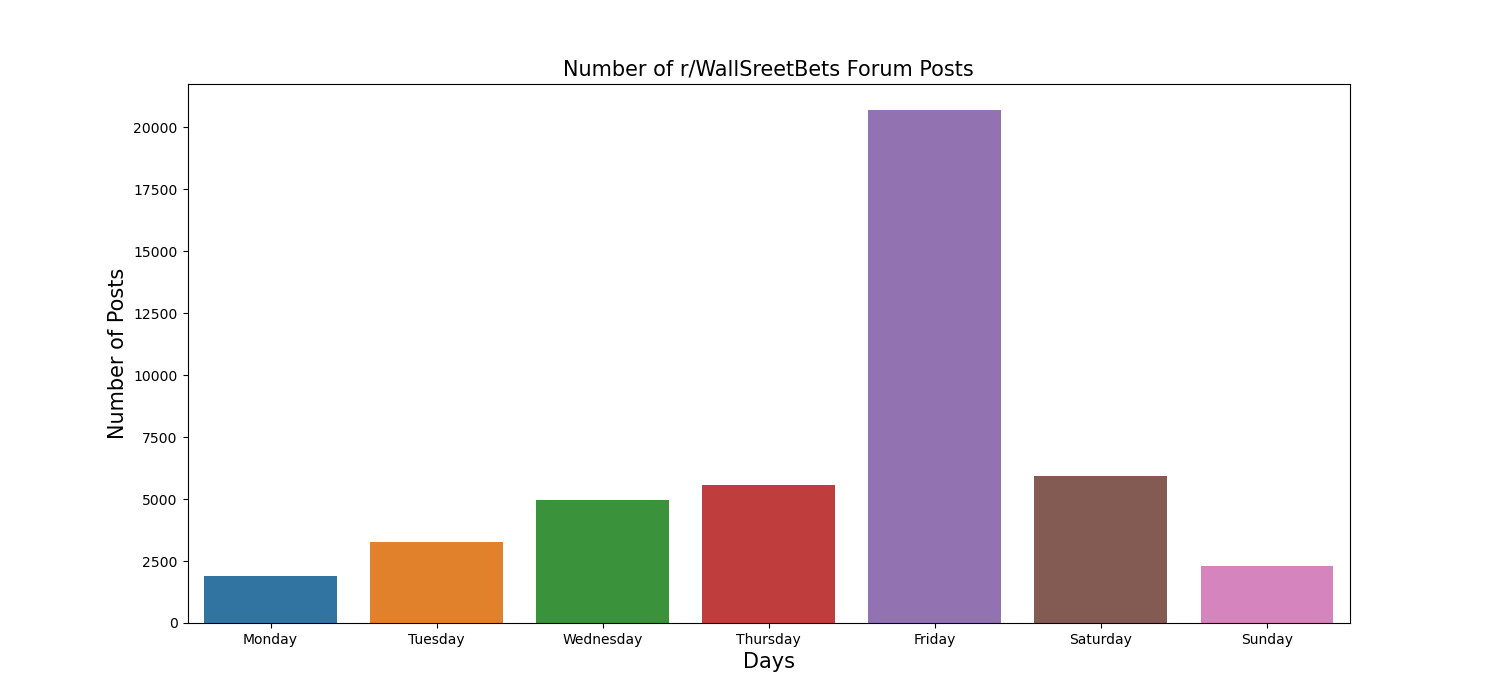
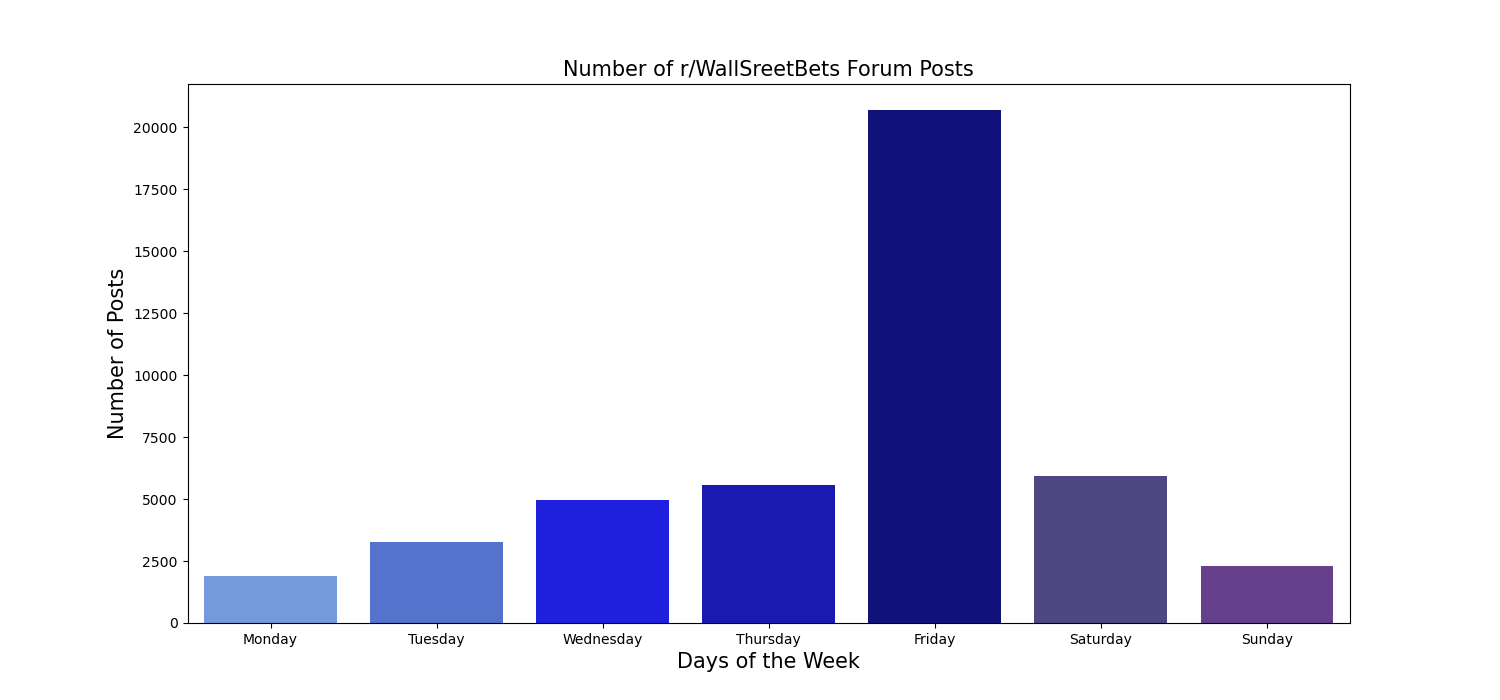
Fifth commit

Changed region(s): [[0.1227, 0.15, 0.8893, 0.9], [0.46, 0.93, 0.5827, 0.96]]

diff --git a/volume_analysis.py b/volume_analysis.py
@@ -3,7 +3,7 @@
 
 import pandas as pd
 import matplotlib.pyplot as plt
-import matplotlib as mtb
+import matplotlib as mtl
 import seaborn as sns
 import numpy as np
 from IPython.display import Image
@@ -11,13 +11,17 @@ from IPython.display import Image
 
 # GME Data
 gme = pd.read_csv(r"GME_stock.csv")
-
-gme['gme_vol_diff'] = gme['volume'].diff(periods=-1);
+# GME Volume %
+gme_vol_diff = gme['volume'].diff(periods=-1)
+gme['vol_diff'] = ((gme["volume"] - gme_vol_diff) / gme["volume"]) * 100
+print(gme.head())
 
 # DOGECOIN Data
 doge = pd.read_csv(r"DOGE-USD.csv")
-
-doge['doge_vol_diff'] = doge['volume'].diff(periods=1);
+# GME Volume %
+doge_vol_diff= doge['volume'].diff(periods=1)
+doge['vol_diff'] = ((doge["volume"] - doge_vol_diff) / doge["volume"]) * 100
+print(doge.head())
 
 # MERGE GME AND DOGECOIN TABLES
 gme_doge = gme.merge(doge, on="date", how="left", suffixes=["_gme", "_doge"])
@@ -31,7 +35,7 @@ gme_doge['date'] = pd.to_datetime(gme['date'], infer_datetime_format=True)
 gme_doge.set_index('date')
 gme_doge.sort_index()
 
-date_range = gme_doge[gme_doge['date'].isin(pd.date_range('2021-01-01', '2021-04-13'))]
+date_range = gme_doge[gme_doge['date'].isin(pd.date_range('2021-01-13', '2021-02-02'))]
 print(date_range.shape)
 print(date_range)
 
@@ -39,39 +43,35 @@ sns.set(style="darkgrid")
 color = sns.color_palette()[2]
 
 fig1, ax = plt.subplots(figsize=(15,7))
-plot = sns.lineplot(ax=ax, x=date_range['date'].values, y=date_range['volume_doge'], color=color)
+plot = sns.lineplot(ax=ax, x=date_range['date'].values, y=date_range['vol_diff_gme'], color='cornflowerblue', label='GME')
+plot = sns.lineplot(ax=ax, x=date_range['date'].values, y=date_range['vol_diff_doge'], color='midnightblue', label='DOGE')
 ax.set(xticks=date_range['date'].values)
 x_dates = date_range['date'].dt.strftime('%Y-%m-%d')
 ax.set_xticklabels(labels=x_dates, rotation=45, ha='right')
 plt.ticklabel_format(style='plain', axis='y')
 ax.get_yaxis().set_major_formatter(
-    mtb.ticker.FuncFormatter(lambda y, p: format(int(y), ',')))
-#for ind, label in enumerate(plot.get_xticklabels()):
-#    if ind % 2 == 0:  # every 2nd label is kept
-#        label.set_visible(True)
-#    else:
+    mtl.ticker.FuncFormatter(lambda y, p: format(int(y), ',')))
 #        label.set_visible(False)
 plt.xlabel('Date')
 plt.ylabel('Volume')
-plt.title('Plot of DOGE Volume')
+plt.title('Plot of GME Volume')
 plt.show()
 
 fig1.savefig('vol_analysis.png')
 
+
+#date_range_2 = gme_doge[gme_doge['date'].isin(pd.date_range('2020-01-01', '2021-03-05'))]
+
 fig2, ax = plt.subplots(figsize=(15,7))
-plot = sns.lineplot(ax=ax, x=date_range['date'].values, y=date_range['doge_vol_diff'], color=color)
-ax.set(xticks=date_range['date'].values)
-x_dates = date_range['date'].dt.strftime('%Y-%m-%d')
-ax.set_xticklabels(labels=x_dates, rotation=45, ha='right')
+plot = sns.factorplot(ax=ax, x=date_range['vol_diff_gme'].values, y=date_range['vol_diff_doge'], color=color)
+#plot = sns.scatterplot(ax=ax, x=date_range['date'].values, y=date_range['low_gme'], color=color)
+ax.set(xticks=date_range['vol_diff_gme'].values)
+#x_dates = date_range['date'].dt.strftime('%Y-%m-%d')
+#ax.set_xticklabels(labels=x_dates, rotation=45, ha='right')
 plt.ticklabel_format(style='plain', axis='y')
-ax.get_yaxis().set_major_formatter(
-    mtb.ticker.FuncFormatter(lambda y, p: format(int(y), ',')))
-#for ind, label in enumerate(plot.get_xticklabels()):
-#    if ind % 2 == 0:  # every 2nd label is kept
-#        label.set_visible(True)
-#    else:
-#        label.set_visible(False)
+#ax.get_yaxis().set_major_formatter(
+#    mtl.ticker.FuncFormatter(lambda y, p: format(int(y), ',')))
 plt.xlabel('Date')
 plt.ylabel('Volume')
-plt.title('Difference in DOGE Volume')
+plt.title('GME High Share Price')
 plt.show()

diff --git a/sp_change.py b/sp_change.py
@@ -1,0 +1,67 @@
+import pandas as pd
+import matplotlib as mtl
+import matplotlib.pyplot as plt
+import seaborn as sns
+import numpy as np
+
+# GME Data
+gme = pd.read_csv(r"GME_stock.csv")
+print(gme.shape)
+print(gme.dtypes)
+
+# GME % INCREASE
+gme["change"] = ((gme["high"] - gme["low"]) / gme["high"]) * 100
+
+# DOGECOIN Data
+doge = pd.read_csv(r"DOGE-USD.csv")
+print(doge.shape)
+print(doge.dtypes)
+
+# DOGE % INCREASE
+doge["change"] = ((doge["high"] - doge["low"]) / doge["high"]) * 100
+
+# MERGE GME AND DOGECOIN TABLES
+gme_doge = gme.merge(doge, on="date", how="left", suffixes=["_gme", "_doge"])
+pd.set_option('display.max_columns', None)
+print(gme_doge.head())
+print(gme_doge.shape)
+
+# Null values present as DOGE ranges from 2014-2021, whereas GME ranges from 2002-2021
+print(gme_doge.isnull())
+print(gme_doge.isnull().sum())
+
+# Converting the date column into datetime index
+gme_doge['date'] = pd.to_datetime(gme['date'], infer_datetime_format=True)
+gme_doge.set_index('date')
+gme_doge.sort_index()
+
+date_range = gme_doge[gme_doge['date'].isin(pd.date_range('2021-01-13', '2021-02-05'))]
+print(date_range.shape)
+print(date_range)
+
+# MERGED TABLES GRAPH
+sns.set(style="darkgrid")
+fig, ax = plt.subplots(figsize=(15,7))
+plot = sns.lineplot(ax=ax, x=date_range['date'].values, y=date_range['change_gme'], color='cornflowerblue', legend='brief', label='GME')
+plot = sns.lineplot(ax=ax, x=date_range['date'].values, y=date_range['change_doge'], color='midnightblue', legend='brief', label='DOGE')
+ax.set(xticks=date_range['date'].values)
+x_dates = date_range['date'].dt.strftime('%b-%d')
+ax.set_xticklabels(labels=x_dates, rotation=45, ha='right')
+plt.ticklabel_format(style='plain', axis='y')
+ax.get_yaxis().set_major_formatter(
+    mtl.ticker.FuncFormatter(lambda y, p: format(int(y), ',')))
+#for ind, label in enumerate(plot.get_xticklabels()):
+#    if ind % 10 == 0:  # every 10th label is kept
+#        label.set_visible(True)
+#    else:
+#        label.set_visible(False)
+plt.xlabel('Date')
+plt.ylabel('Share Price Increase (%)')
+plt.title('Percentage Increase in Share Price of GME and DOGE')
+plt.show()
+
+fig.savefig('sp_change.png')
+
+
+
+

diff --git a/doge_vol_sp.py b/doge_vol_sp.py
@@ -1,0 +1,53 @@
+import pandas as pd
+import matplotlib.pyplot as plt
+import matplotlib as mtl
+import seaborn as sns
+import numpy as np
+from IPython.display import Image
+
+# DOGE Data
+doge = pd.read_csv(r"DOGE-USD.csv")
+
+# DOGE Volume %
+doge_vol_diff = doge['volume'].diff(periods=-1)
+doge['vol_diff'] = ((doge["volume"] - doge_vol_diff) / doge["volume"]) * 100
+
+# DOGE SP % INCREASE
+doge["change"] = ((doge["high"] - doge["low"]) / doge["high"]) * 100
+
+# Converting the date column into datetime index
+doge['date'] = pd.to_datetime(doge['date'], infer_datetime_format=True)
+doge.set_index('date', inplace=True)
+
+plt.figure(figsize=(10, 5))
+top = plt.subplot2grid((4, 4), (0, 0), rowspan=3, colspan=10)
+bottom = plt.subplot2grid((4, 4), (3, 0), rowspan=1, colspan=10)
+top.bar(doge.index, doge['high'])
+bottom.bar(doge.index, doge['volume'])
+
+
+top.axes.get_xaxis().set_visible(False)
+top.set_title('DOGE Stock')
+top.set_ylabel('Highest Price')
+bottom.set_ylabel('Volume')
+
+plt.show()
+
+doge['date'] = pd.to_datetime(gme['date'], infer_datetime_format=True)
+doge.set_index('date')
+date_range = doge[doge['date'].isin(pd.date_range('2021-01-13', '2021-02-05'))]
+
+sns.set(style="darkgrid")
+fig, ax = plt.subplots(figsize=(15,7))
+plot = sns.lineplot(ax=ax, x=date_range['date'].values, y=date_range['volume_doge'], color='midnightblue', label='DOGE')
+ax.set(xticks=date_range['date'].values)
+x_dates = date_range['date'].dt.strftime('%b-%d')
+ax.set_xticklabels(labels=x_dates, rotation=45, ha='right')
+plt.ticklabel_format(style='plain', axis='y')
+ax.get_yaxis().set_major_formatter(
+    mtl.ticker.FuncFormatter(lambda y, p: format(int(y), ',')))
+
+plt.xlabel('Date')
+plt.ylabel('Volume')
+plt.title('Volume Trend of DOGE')
+plt.show()

diff --git a/gme_vol_sp.py b/gme_vol_sp.py
@@ -1,0 +1,51 @@
+import pandas as pd
+import matplotlib.pyplot as plt
+import matplotlib as mtl
+import seaborn as sns
+import numpy as np
+from IPython.display import Image
+
+# GME Data
+gme = pd.read_csv(r"GME_stock.csv")
+
+# GME Volume %
+gme_vol_diff = gme['volume'].diff(periods=-1)
+gme['vol_diff'] = ((gme["volume"] - gme_vol_diff) / gme["volume"]) * 100
+
+# GME SP % INCREASE
+gme["change"] = ((gme["high"] - gme["low"]) / gme["high"]) * 100
+
+# Converting the date column into datetime index
+gme['date'] = pd.to_datetime(gme['date'], infer_datetime_format=True)
+gme.set_index('date', inplace=True)
+
+plt.figure(figsize=(10, 5))
+top = plt.subplot2grid((4, 4), (0, 0), rowspan=3, colspan=10)
+bottom = plt.subplot2grid((4, 4), (3, 0), rowspan=1, colspan=10)
+top.bar(gme.index, gme['high'])
+bottom.bar(gme.index, gme['volume'])
+
+
+top.axes.get_xaxis().set_visible(False)
+top.set_title('GME Stock')
+top.set_ylabel('Highest Price')
+bottom.set_ylabel('Volume')
+
+plt.show()
+
+date_range = gme[gme['date'].isin(pd.date_range('2021-01-13', '2021-02-05'))]
+
+sns.set(style="darkgrid")
+fig, ax = plt.subplots(figsize=(15,7))
+plot = sns.lineplot(ax=ax, x=date_range['date'].values, y=date_range['volume'], color='cornflowerblue', label='GME')
+ax.set(xticks=date_range['date'].values)
+x_dates = date_range['date'].dt.strftime('%b-%d')
+ax.set_xticklabels(labels=x_dates, rotation=45, ha='right')
+plt.ticklabel_format(style='plain', axis='y')
+ax.get_yaxis().set_major_formatter(
+    mtl.ticker.FuncFormatter(lambda y, p: format(int(y), ',')))
+
+plt.xlabel('Date')
+plt.ylabel('Volume')
+plt.title('Volume Trend of GME')
+plt.show()

diff --git a/wsb_data.py b/wsb_data.py
@@ -1,5 +1,6 @@
 import pandas as pd
 import matplotlib.pyplot as plt
+import matplotlib as mtl
 import seaborn as sns
 import numpy as np
 
@@ -7,17 +8,17 @@ wsb = pd.read_csv(r"reddit_wsb.csv")
 print(wsb["body"].count())
 
 # SEPARATE TIMESTAMP COLUMN TO DATE AND TIME
-wsb["date"] = pd.to_datetime(wsb["timestamp"]).dt.date
-wsb["time"] = pd.to_datetime(wsb["timestamp"]).dt.time
-wsb["date"] = pd.to_datetime((wsb["date"]))
-wsb.dropna()
+wsb['date'] = pd.to_datetime(wsb['timestamp']).dt.date
+wsb['time'] = pd.to_datetime(wsb['timestamp']).dt.time
+wsb['date'] = pd.to_datetime((wsb['date']))
+wsb.drop(['created', 'timestamp'], 1, inplace=True)
 pd.set_option('display.max_columns', None)
 print(wsb.columns)
 print(wsb.head())
 
-print(wsb["body"].count())
+print(wsb['body'].count())
 
-#wsb.set_index("date")
+wsb.set_index('date')
 
 def missing_data(data):
     total = data.isnull().sum()
@@ -31,3 +32,23 @@ def missing_data(data):
     return(np.transpose(tt))
 
 print(missing_data(wsb))
+
+wsb.fillna('n/a', inplace=True)
+print(missing_data(wsb))
+
+wsb_data = wsb[(wsb['score'] > 7000) & (wsb['comms_num'] > 500)]
+print('WSB DATA')
+print(wsb_data)
+
+print('MAX SCORE')
+max_score = wsb.loc[wsb['score'].idxmax()]
+print(max_score)
+
+
+sns.set(style="darkgrid")
+fig, ax = plt.subplots(figsize=(15,7))
+plot = sns.scatterplot(ax=ax, x=wsb_data['score'].values, y=wsb_data['date'].values, hue='score', legend='brief', label='Score')
+plt.xlabel('Score of Post')
+plt.ylabel('# of Comments')
+plt.title('r/WSB')
+plt.show()

diff --git a/doge_sp.py b/doge_sp.py
@@ -1,0 +1,40 @@
+import pandas as pd
+import matplotlib.pyplot as plt
+import matplotlib as mtl
+import seaborn as sns
+import numpy as np
+from IPython.display import Image
+
+# DOGECOIN Data
+doge = pd.read_csv(r"DOGE-USD.csv")
+
+doge['doge_vol_diff'] = doge['volume'].diff(periods=1);
+doge['change'] = ((doge['high'] - doge['low']) / doge['high']) * 100
+doge['date'] = pd.to_datetime(doge['date'])
+
+#doge['date'] = pd.date_range('2021-01-01', periods=200, freq='D')
+#doge = doge.set_index(['date'])
+#print(doge.loc['2021-01-26':'2021-02-12'])
+
+doge_cols = doge.iloc[:, [0,2]]
+print(doge_cols)
+doge_cols.set_index(['date'])
+doge_sub = doge_cols['date'].loc['2021-01-06':'2021-02-10']
+print(doge_sub)
+
+sns.set(style="darkgrid")
+color = sns.color_palette()[2]
+
+fig1, ax = plt.subplots(figsize=(15,7))
+plot = sns.lineplot(ax=ax, x=doge_sub['date'].values, y=doge_sub['high'], color='g')
+ax.set(xticks=doge_sub['date'].values)
+x_dates = doge_sub['date'].dt.strftime('%Y-%m-%d')
+ax.set_xticklabels(labels=x_dates, rotation=45, ha='right')
+plt.ticklabel_format(style='plain', axis='y')
+ax.get_yaxis().set_major_formatter(
+    mtl.ticker.FuncFormatter(lambda y, p: format(int(y), ',')))
+#        label.set_visible(False)
+plt.xlabel('Date')
+plt.ylabel('Volume')
+plt.title('Plot of GME Volume')
+plt.show()

diff --git a/wsb_analysis.py b/wsb_analysis.py
@@ -21,15 +21,20 @@ print(wsb['weekday'].head(20))
 xs = wsb['weekday'].value_counts().index
 ys = wsb['weekday'].value_counts().values
 
+colour_dict = dict({'Monday':'cornflowerblue',
+                  'Tuesday':'royalblue',
+                  'Wednesday': 'blue',
+                  'Thursday': 'mediumblue',
+                   'Friday': 'darkblue',
+                   'Saturday': 'darkslateblue',
+                   'Sunday': 'rebeccapurple'})
 
 fig, ax = plt.subplots(figsize=(15,7))
-#plt.figure(figsize=(14,6))
-
-sns.barplot(x=xs, y=ys, order=days_order)
+sns.barplot(x=xs, y=ys, order=days_order, palette=colour_dict)
 
 plt.title("Number of r/WallSreetBets Forum Posts", fontsize=15)
 
-plt.xlabel("Days", fontsize=15)
+plt.xlabel("Days of the Week", fontsize=15)
 plt.ylabel("Number of Posts", fontsize=15)
 
 plt.show()
